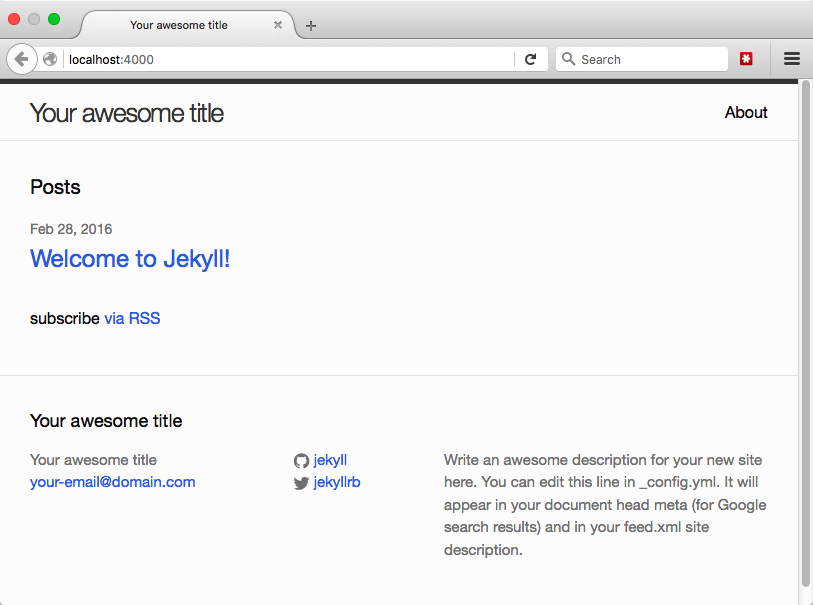
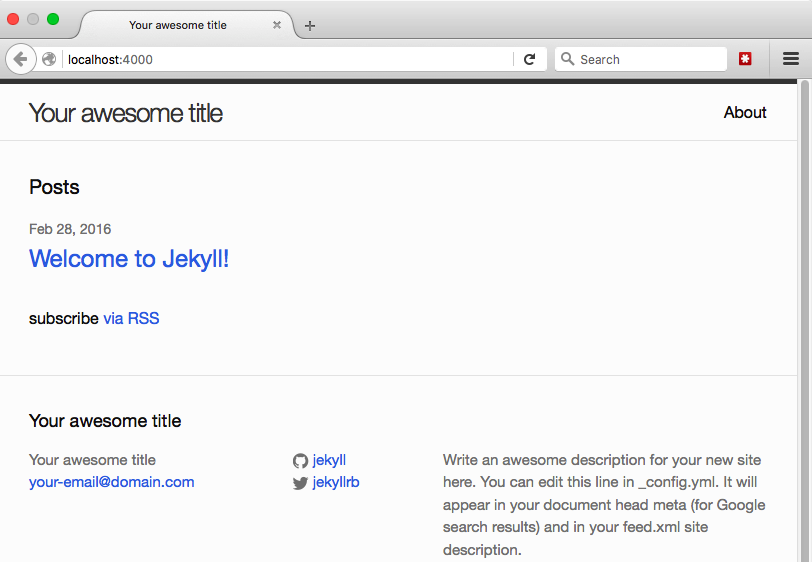
Fixes from Fred's initial review, para 19
- Created new “Running a website locally” section to break out the
steps you’ll use repeatedly when you want to do local website work.
- Cropped one screenshot

diff --git a/lessons/building-static-sites-with-jekyll-github-pages.md b/lessons/building-static-sites-with-jekyll-github-pages.md
@@ -22,6 +22,7 @@ layout: default
 * [Preparing for installation](#section1)
 * [Installing dependencies](#section2)
 * [Setting up Jekyll](#section3)
+* [Running a website locally](#section3a)
 * [Tweaking the settings](#section4)
 * [Writing pages and posts](#section5)
 * [Hosting on GitHub Pages](#section6)
@@ -238,7 +239,7 @@ Don't forget to wait until the command prompt appears again to type the followin
 
 ## Setting up Jekyll <a id="section3"></a>
 
-*You've now installed everything needed to make your website. In this section, we'll create a private version of your website by running Jekyll, which will generate a new folder full of the files that constitute your website. We'll also locate this folder in a place accessible to the GitHub Desktop app so they're in the right place when we want to publish them as a public website later in the lesson.*
+*You've now installed everything needed to make your website. In this section, we'll use Jekyll to generate a new folder full of the files that constitute your website. We'll also locate this folder in a place accessible to the GitHub Desktop app so they're in the right place when we want to publish them as a public website later in the lesson.*
 
 1. You'll need to know the file path to the GitHub folder created by installing the GitHub Desktop app (this is some text that says where a specific folder or file is within the directory tree on your computer, e.g. /Desktop/MyRecipes/Spaghetti.doc). If you don't know the GitHub folder file path, click on the magnifying glass icon in the top right of your computer screen (on a Mac) or use the search field on the Start Menu (Windows).
 
@@ -276,7 +277,7 @@ Don't forget to wait until the command prompt appears again to type the followin
 
    ![Screenshot](../images/building-static-sites-with-jekyll-github-pages-9.png)
 
-5. Bundler is a Ruby Gem that will make testing your site easier; it needs to be installed directly into the website folder we just created (e.g. *JekyllDemo*), which is why we didn't install it earlier in this lesson. At the command line, enter:
+5. Bundler is a Ruby "Gem" (a package of Ruby code that adds some specific feature to your site) that will make testing your site easier; it needs to be installed directly into the website folder we just created (e.g. *JekyllDemo*), which is why we didn't install it earlier in this lesson. At the command line, enter:
 
    `gem install bundler` 
 
@@ -309,29 +310,32 @@ Don't forget to wait until the command prompt appears again to type the followin
 
    You won't need to mess with the Gemfile again, since we'll be hosting your website on GitHub Pages and GitHub Pages does not allow additional site dependencies or plugins (code that adds specific features, like social media buttons after every post; [more on plugins below](#section7-2).)
 
-9. At the command line, type
+## Running a website locally <a id="section3a"></a>
+*This section will describe how to run your website* ***locally****—meaning you'll be able to see what your website will look like in a web browser just on your computer (aka locally), but not anywhere else. Working on a "local" version of a website means that it's private to your computer; no one else can see your website yet (your website isn't "live" or "public": no one can type in the URL and see it in their browser).*
 
-   `bundle exec jekyll serve --watch`
+*This means you can experiment all you want, and only publish your site for the world to see when it's ready. Or, once you've made your site live, you can continue to experiment locally with new writing, design, etc. and only add these to the public site once you're happy with how they look on the local site.*
 
-   This is the command you'll run whenever you want to view your website locally.
+1. At the command line, type  
 
-   *jekyll serve* tells your computer to run Jekyll *locally*—meaning you'll be able to see what your website will look like in a web browser on your computer (aka locally), but not anywhere else. Doing something locally means that no one else can see your website yet (your website isn't "live" or "public": no one can type in the URL and see it in their browser). This means you can experiment all you want, and only publish your site for the world to see when it's ready (or once it's ready, experiment locally with new writing, design, etc. and only add these to the public site once you're happy with how they look on the local site!).
+    `bundle exec jekyll serve --watch`
+
+   This is the command you'll run whenever you want to view your website locally:
+
+    *jekyll serve* tells your computer to run Jekyll locally.
 
    *--watch* together with *bundle exec* tells Jekyll to watch for changes to the website's files, such as you writing and saving a new blog post or webpage, and to include these changes on refreshing your web browser. **An exception to this** is the _config.yml file, which I'll discuss in more detail in the next section (any changes made there *won't* show up until you stop and restart Jekyll).
 
-10. After typing in the command in the previous step, you'll notice that the process never finishes. Remember how on the command line, if you type in anything while the previous command is still processing, you can cause problems? Jekyll is now being run from this command line window, so you'll need to open a new command line window if you want to type other commands while your local site is still accessible to you (see [the section on command line usage above](#section1-4).)
+2. After typing in the command in the previous step, you'll notice that the process never finishes. Remember how on the command line, if you type in anything while the previous command is still processing, you can cause problems? Jekyll is now being run from this command line window, so you'll need to open a new command line window if you want to type other commands while your local site is still accessible to you (see [the section on command line usage above](#section1-4).) ![Screenshot](../images/building-static-sites-with-jekyll-github-pages-10.png)
 
-    ![Screenshot](../images/building-static-sites-with-jekyll-github-pages-10.png)
+   Reports and error messages caused by changes you make to the files in the website folder will appear in this command line window, and are a good first place to check if something isn't working.
 
-    Reports and error messages caused by changes you make to the files in the website folder will appear in this command line window, and are a good first place to check if something isn't working.
+3. To stop running the site locally, press **control-c** (this frees up the command line window for use again). Just enter `bundle exec jekyll serve --watch` again to start running the site locally again.
 
-11. To stop running the site locally, press **control-c** (this frees up the command line window for use again). Just enter `bundle exec jekyll serve --watch` again to start running the site locally again.
+4. View your locally-running site by visiting **localhost:4000**. You'll see a basic Jekyll website with boilerplate text:
 
-12. View your locally-running site by visiting **localhost:4000**. You'll see a basic Jekyll website with boilerplate text:
+![Screenshot](../images/building-static-sites-with-jekyll-github-pages-11.png)
 
-    ![Screenshot](../images/building-static-sites-with-jekyll-github-pages-11.png)
-
-### Mini cheatsheet <a id="section3-1"></a>
+### Mini cheatsheet <a id="section3a-1"></a>
 
 - Type `bundle exec jekyll serve --watch` at the command line to start running your website locally. You'd visit **localhost:4000** in a browser to see your local site now, but in the next section we'll be changing things such that you'll need to visit **localhost:4000/JekyllDemo/** to see the site from then on (filling in your website folder name for *JekyllDemo*, and making sure to include the last slash).
 
@@ -343,7 +347,7 @@ Don't forget to wait until the command prompt appears again to type the followin
 
 ## Tweaking the settings <a id="section4"></a>
 
-*You now have a basic private website. In this section, we'll begin to customize your site by changing the website title and author information, and giving a brief overview of what the different website files do.*
+*You now have a basic, private website accessible only on your computer. In this section, we'll begin to customize your site by changing the website title and author information, and giving a brief overview of what the different website files do.*
 
 ### Basic site settings via _config.yml <a id="section4-1"></a>
 
